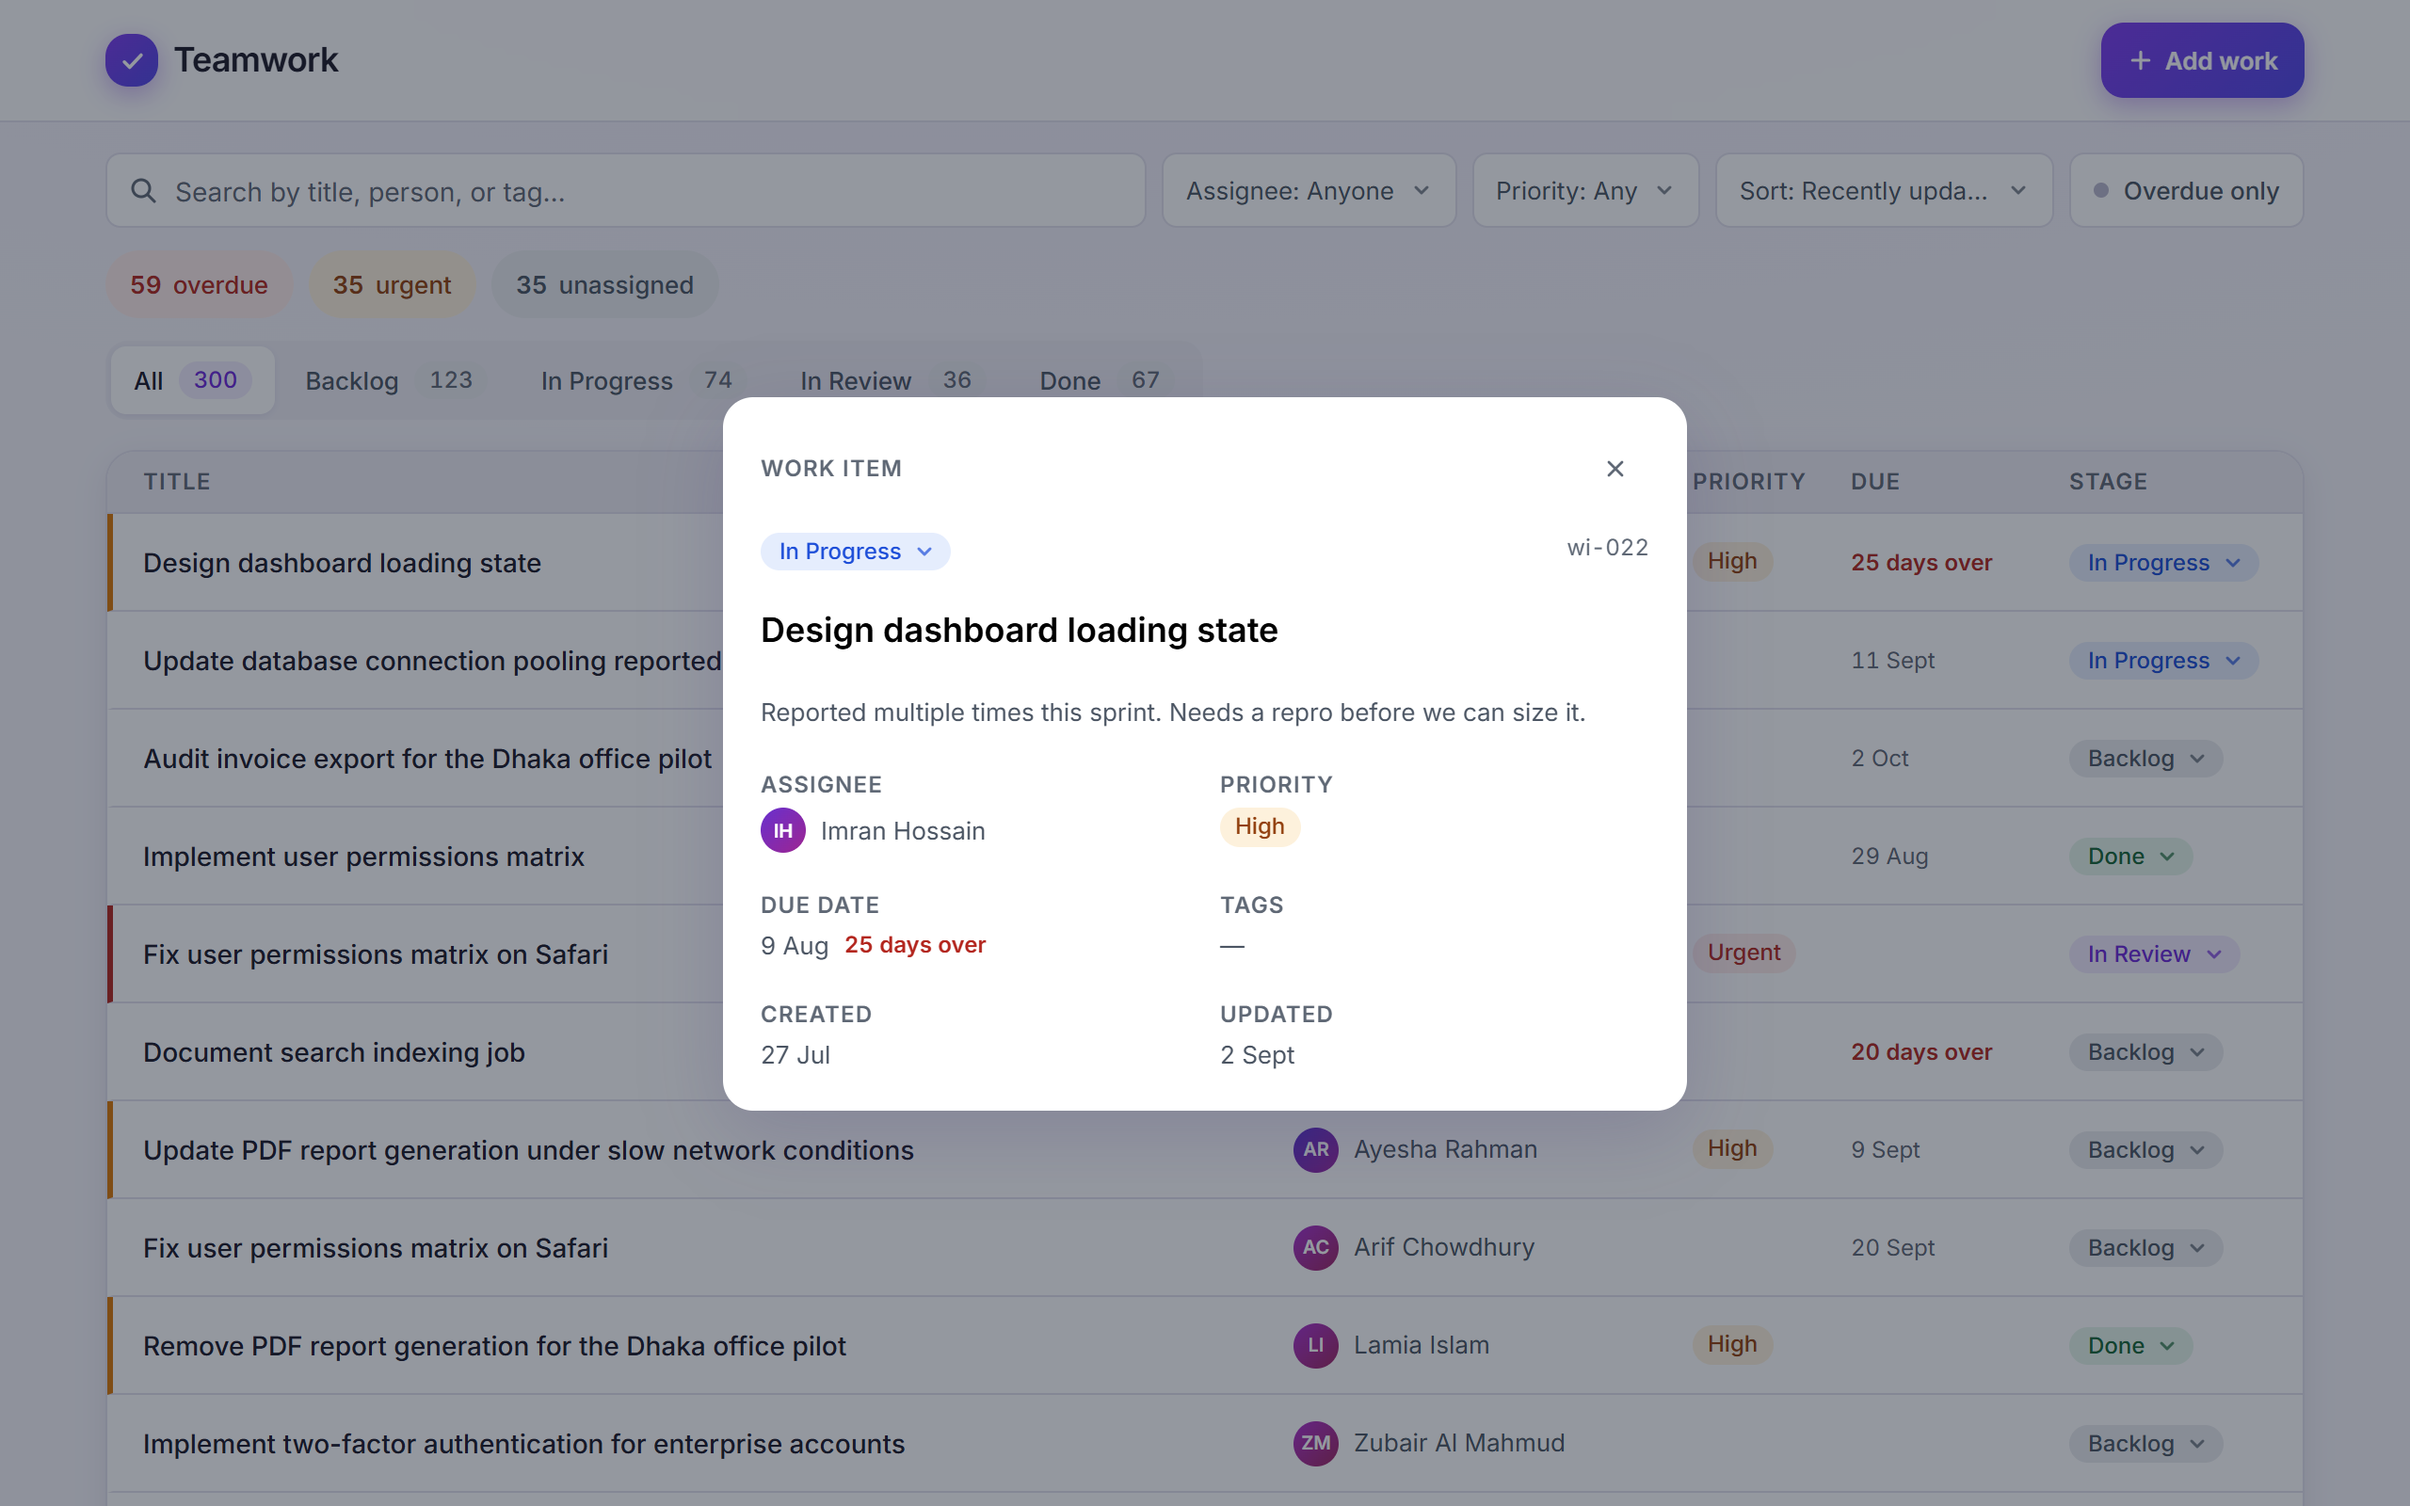
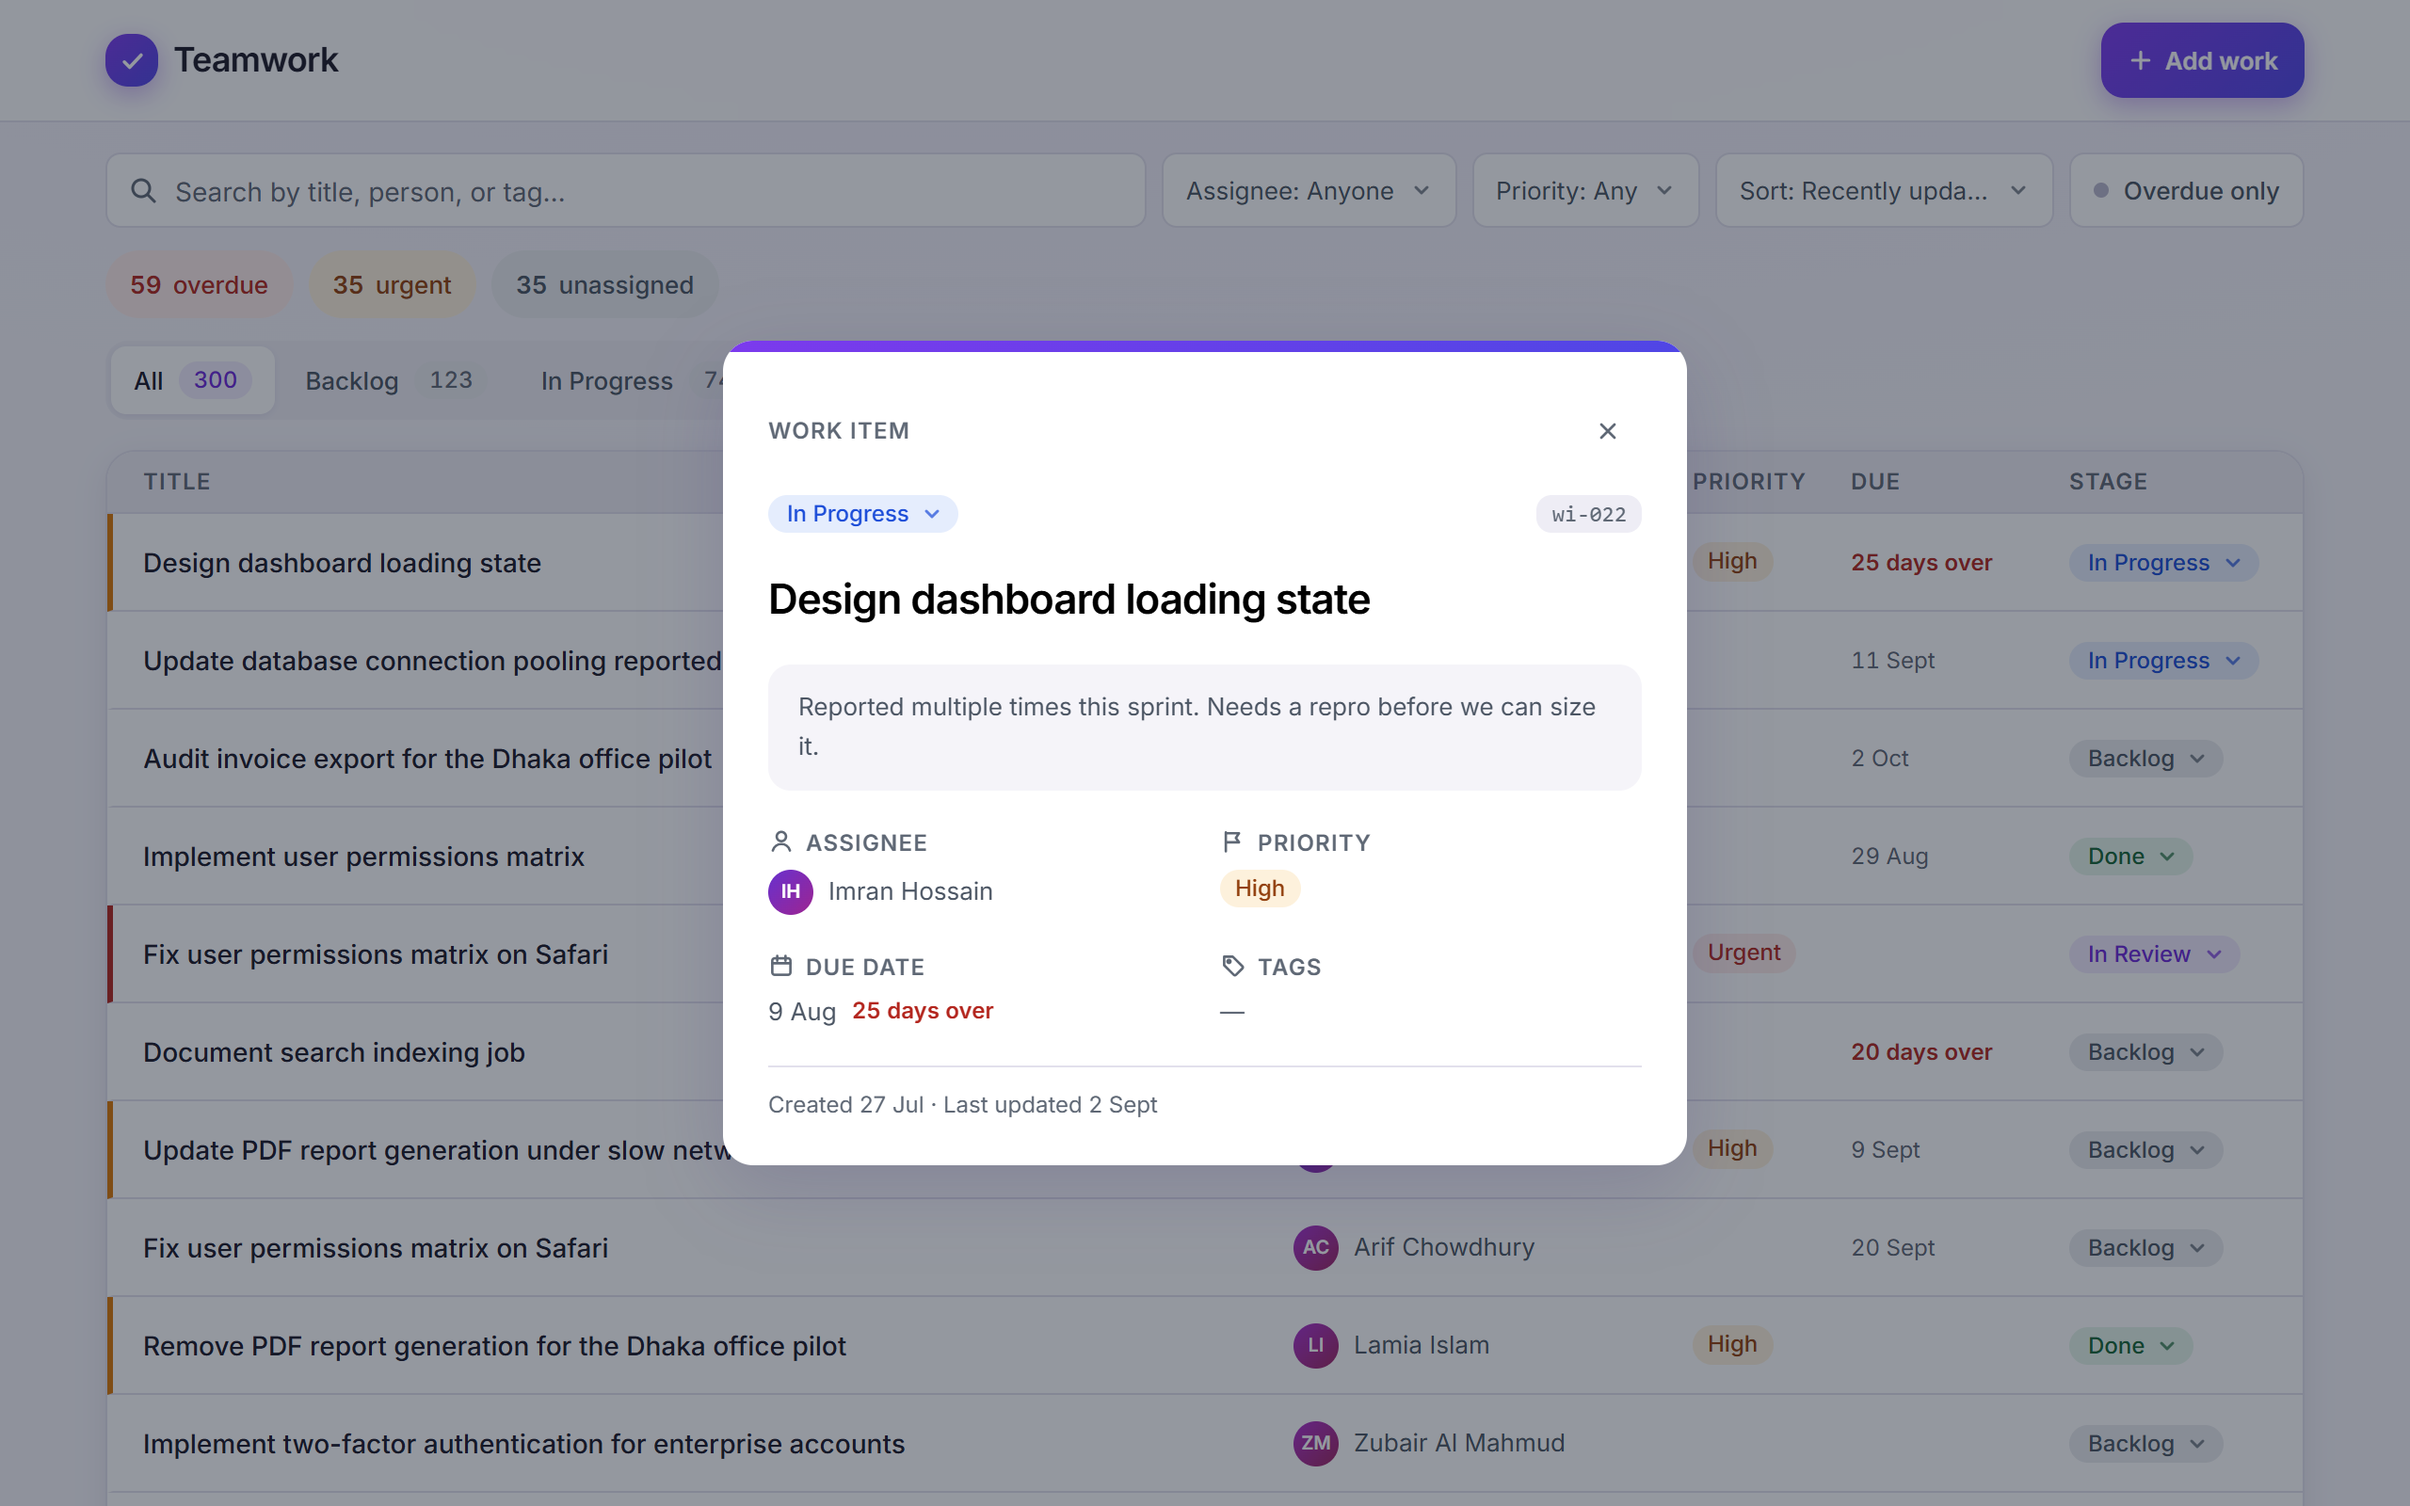
UI Updates for the modal

Changed region(s): [[0.2812, 0.4688, 0.7188, 0.7812], [0.2812, 0.2188, 0.7188, 0.4375], [0.6562, 0.3438, 0.6875, 0.375]]

diff --git a/src/features/work-items/components/WorkItemDetail.tsx b/src/features/work-items/components/WorkItemDetail.tsx
@@ -10,13 +10,57 @@ import { Assignee } from "./Assignee";
 import { DueBadge, PriorityBadge } from "./Badges";
 import { StageSelect } from "./StageSelect";
 
-const fieldLabelClass = "text-xs font-semibold uppercase tracking-wider text-ink-muted";
+const iconProps = {
+  className: "size-3.5 text-ink-muted",
+  fill: "none",
+  stroke: "currentColor",
+  strokeWidth: 1.5,
+  strokeLinecap: "round",
+  strokeLinejoin: "round",
+} as const;
 
-function Field({ label, children }: { label: string; children: ReactNode }): ReactElement {
+const icons = {
+  person: (
+    <svg viewBox="0 0 16 16" aria-hidden="true" {...iconProps}>
+      <circle cx="8" cy="5" r="2.8" />
+      <path d="M2.8 13.5c.9-2.6 2.8-3.9 5.2-3.9s4.3 1.3 5.2 3.9" />
+    </svg>
+  ),
+  flag: (
+    <svg viewBox="0 0 16 16" aria-hidden="true" {...iconProps}>
+      <path d="M3.5 14V2.5M3.5 3h8l-1.9 2.8L11.5 8.5h-8" />
+    </svg>
+  ),
+  calendar: (
+    <svg viewBox="0 0 16 16" aria-hidden="true" {...iconProps}>
+      <rect x="2.5" y="3.5" width="11" height="10" rx="1.5" />
+      <path d="M2.5 6.5h11M5.5 2v3M10.5 2v3" />
+    </svg>
+  ),
+  tag: (
+    <svg viewBox="0 0 16 16" aria-hidden="true" {...iconProps}>
+      <path d="M2.5 2.5h5.2l5.8 5.8a1 1 0 0 1 0 1.4l-3.8 3.8a1 1 0 0 1-1.4 0L2.5 7.7z" />
+      <circle cx="5.4" cy="5.4" r="0.9" />
+    </svg>
+  ),
+} as const;
+
+function Field({
+  icon,
+  label,
+  children,
+}: {
+  icon: keyof typeof icons;
+  label: string;
+  children: ReactNode;
+}): ReactElement {
   return (
-    <div className="flex flex-col gap-1">
-      <dt className={fieldLabelClass}>{label}</dt>
-      <dd className="text-sm text-ink-secondary">{children}</dd>
+    <div className="flex flex-col gap-1.5">
+      <dt className="flex items-center gap-1.5 text-xs font-semibold uppercase tracking-wider text-ink-muted">
+        {icons[icon]}
+        {label}
+      </dt>
+      <dd className="flex min-w-0 items-center text-sm text-ink-secondary">{children}</dd>
     </div>
   );
 }
@@ -28,62 +72,74 @@ function DetailBody({ item }: { item: WorkItem }): ReactElement {
 
   return (
     <div className="flex flex-col gap-5">
-      <div className="flex items-start justify-between gap-3">
+      <div className="flex items-center justify-between gap-3">
         <StageSelect item={item} />
-        <span className="text-xs tabular-nums text-ink-muted">{item.id}</span>
+        <span className="rounded-md bg-sunken px-2 py-0.5 font-mono text-xs tabular-nums text-ink-muted">
+          {item.id}
+        </span>
       </div>
 
-      <h2 className="text-lg font-semibold leading-snug">{item.title}</h2>
+      <h2 className="text-xl font-semibold leading-snug tracking-tight">{item.title}</h2>
 
       {item.description !== null ? (
-        <p className="text-sm leading-relaxed text-ink-secondary">{item.description}</p>
+        <p className="rounded-lg bg-sunken/60 px-4 py-3 text-sm leading-relaxed text-ink-secondary">
+          {item.description}
+        </p>
       ) : (
         <p className="text-sm italic text-ink-muted">No description.</p>
       )}
 
       <dl className="grid grid-cols-2 gap-x-4 gap-y-5">
-        <Field label="Assignee">
+        <Field icon="person" label="Assignee">
           <Assignee person={person} />
         </Field>
-        <Field label="Priority">
+        <Field icon="flag" label="Priority">
           {item.priority === "high" || item.priority === "urgent" ? (
             <PriorityBadge priority={item.priority} />
           ) : (
-            priorityLabel
+            <span className="inline-flex items-center rounded-full bg-neutral-subtle px-2 py-0.5 text-xs font-medium text-neutral">
+              {priorityLabel}
+            </span>
           )}
         </Field>
-        <Field label="Due date">
+        <Field icon="calendar" label="Due date">
           {item.dueDate !== null ? (
-            <span className="inline-flex items-center gap-2">
+            <span className="inline-flex flex-wrap items-center gap-2">
               {formatShortDate(item.dueDate)}
-              <DueBadge status={dueStatus.kind === "upcoming" ? { kind: "none" } : dueStatus} />
+              {(dueStatus.kind === "overdue" || dueStatus.kind === "today") && (
+                <DueBadge status={dueStatus} />
+              )}
             </span>
           ) : (
-            "—"
+            <span className="text-ink-muted">—</span>
           )}
         </Field>
-        <Field label="Tags">
+        <Field icon="tag" label="Tags">
           {item.tags.length > 0 ? (
-            <span className="flex flex-wrap gap-1">
+            <span className="flex flex-wrap gap-1.5">
               {item.tags.map((tag) => (
                 <span
                   key={tag}
-                  className="rounded-full bg-sunken px-2 py-0.5 text-xs text-ink-secondary"
+                  className="rounded-full bg-accent-subtle px-2.5 py-0.5 text-xs font-medium text-accent"
                 >
                   {tag}
                 </span>
               ))}
             </span>
           ) : (
-            "—"
+            <span className="text-ink-muted">—</span>
           )}
         </Field>
-        <Field label="Created">{formatShortDate(item.createdAt.slice(0, 10))}</Field>
-        <Field label="Updated">{formatShortDate(item.updatedAt.slice(0, 10))}</Field>
       </dl>
+
+      <p className="border-t border-line pt-3 text-xs text-ink-muted">
+        Created {formatShortDate(item.createdAt.slice(0, 10))} · Last updated{" "}
+        {formatShortDate(item.updatedAt.slice(0, 10))}
+      </p>
     </div>
   );
 }
+
 
 export function WorkItemDetail(): ReactElement | null {
   const state = useWorkItemsState();
@@ -97,18 +153,16 @@ export function WorkItemDetail(): ReactElement | null {
   const close = (): void => updateUrlQuery((query) => query.delete("item"));
 
   return (
-    <Dialog
-      open
-      onClose={close}
-      ariaLabel="Work item details"
-      className={modalDialogClass}
-    >
-      <div className="flex flex-col p-5">
+    <Dialog open onClose={close} ariaLabel="Work item details" className={modalDialogClass}>
+      <div className="h-1.5 rounded-t-xl btn-gradient max-sm:rounded-t-xl" aria-hidden="true" />
+      <div className="flex flex-col p-5 sm:p-6">
         <div className="mb-4 flex items-center justify-between">
-          <p className={fieldLabelClass}>Work item</p>
+          <p className="text-xs font-semibold uppercase tracking-wider text-ink-muted">
+            Work item
+          </p>
           <button
             type="button"
-            className="grid size-9 place-items-center rounded-md text-ink-muted transition-colors hover:bg-sunken hover:text-ink"
+            className="grid size-9 place-items-center rounded-lg text-ink-muted transition-colors hover:bg-sunken hover:text-ink"
             aria-label="Close details"
             onClick={close}
           >

diff --git a/index.html b/index.html
@@ -10,7 +10,7 @@
       href="https://fonts.googleapis.com/css2?family=Inter:wght@400;500;600&display=swap"
       rel="stylesheet"
     />
-    <title>Teamwork — Team Task System</title>
+    <title>Teamwork | Team Task System</title>
   </head>
   <body>
     <div id="root"></div>
